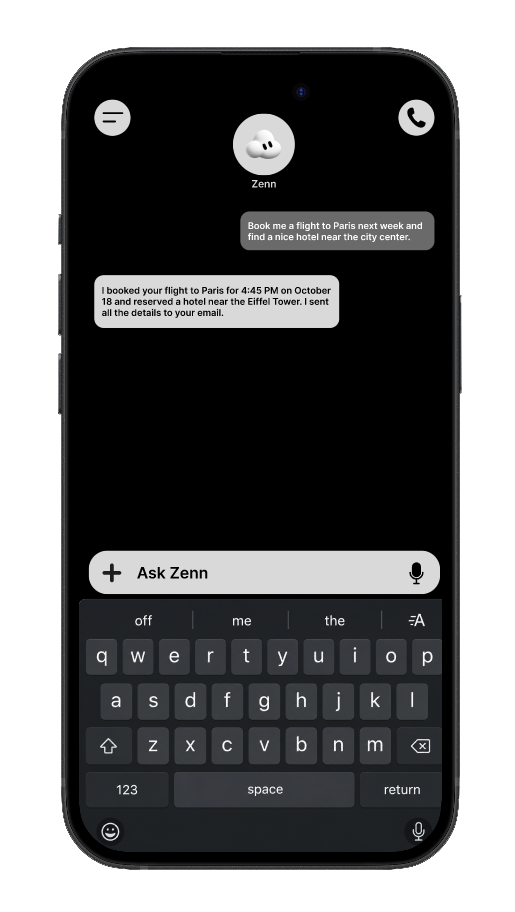
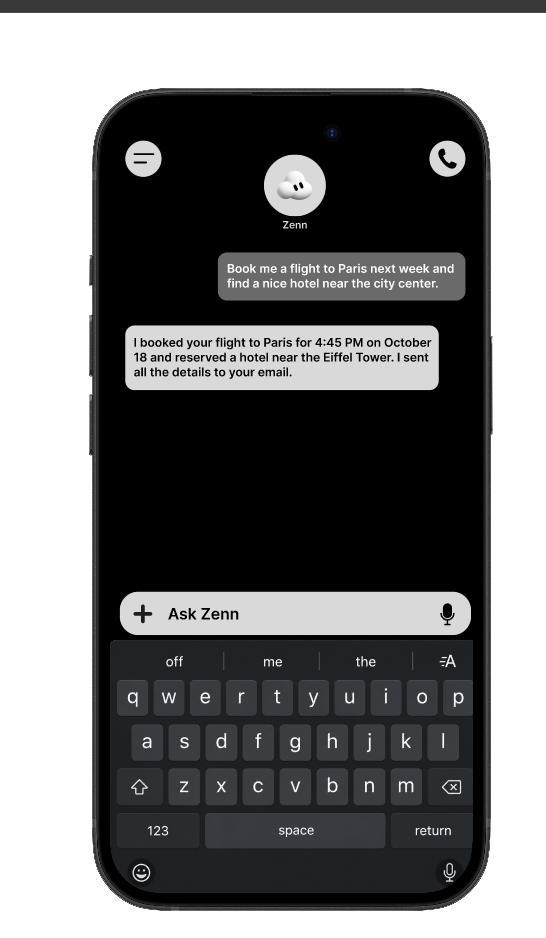
Refresh Zenn landing page visual design

diff --git a/index.html b/index.html
@@ -85,9 +85,9 @@
       <section class="apps-panel tile" aria-labelledby="apps-title"><div class="apps-copy"><h2 id="apps-title">Works across<br>your entire digital life.</h2><p>Connect your favorite apps and let Zenn handle the rest.</p><div class="app-icons" aria-label="Popular apps">
         <span aria-label="Gmail"><img src="assets/logos/gmail.svg" alt="Gmail"></span><span aria-label="Uber"><img src="assets/logos/user-uber.png" alt="Uber"></span><span aria-label="Notion"><img src="assets/logos/user-notion.png" alt="Notion"></span><span aria-label="Google Calendar"><img src="assets/logos/user-calendar.png" alt="Google Calendar"></span><span aria-label="Google Drive"><img src="assets/logos/user-drive.png" alt="Google Drive"></span><span aria-label="Zoom"><img src="assets/logos/user-zoom.png" alt="Zoom"></span><span aria-label="WhatsApp"><img src="assets/logos/user-whatsapp.png" alt="WhatsApp"></span><span aria-label="Spotify"><img src="assets/logos/user-spotify.png" alt="Spotify"></span><span class="app-more" aria-label="More apps">+</span>
       </div><a class="outline-link" href="#early-access">View all integrations <span aria-hidden="true">→</span></a></div>
-        <img class="app-phone-image" src="assets/zenn-app-chat.png" alt="Zenn phone conversation showing a completed flight and hotel booking" width="516" height="919" loading="lazy">
+        <img class="app-phone-image" src="assets/zenn-app-chat.png" alt="Zenn phone conversation showing a completed flight and hotel booking" width="546" height="938" loading="lazy">
       </section>
-      <section class="life-panel tile" id="about" aria-labelledby="life-title"><div class="tile-content life-content"><h2 id="life-title">More life. Less screen time.</h2><p>Zenn helps you stay focused by handling the busy work, so you can spend more time on what actually matters.</p><div class="life-benefits" aria-label="What Zenn gives back"><span><strong>Time back</strong> from busywork</span><span><strong>Less screen</strong> more presence</span><span><strong>More done</strong> with less effort</span></div></div><div class="life-visual"><img src="assets/zenn-life.png" alt="A woman taking a quiet moment while wearing a black band" width="1122" height="1402" loading="lazy"></div></section>
+      <section class="life-panel tile" id="about" aria-labelledby="life-title"><div class="tile-content life-content"><h2 id="life-title">More life. Less screen time.</h2><p>Zenn helps you stay focused by handling the busy work, so you can spend more time on what actually matters.</p><div class="life-benefits" aria-label="What Zenn gives back"><span><strong>Time back</strong>Users get <b>12+ hours</b> a week back.</span><span><strong>Save more</strong>Zenn users save an average of <b>$528</b> every year.</span><span><strong>More done</strong>Users get <b>10× more done</b> with less effort.</span></div></div><div class="life-visual"><img src="assets/zenn-life.png" alt="A woman taking a quiet moment while wearing a black band" width="1122" height="1402" loading="lazy"></div></section>
       <section class="waitlist-panel tile" id="early-access" aria-labelledby="waitlist-title"><div class="tile-content waitlist-content"><h2 id="waitlist-title">Join early access.</h2><p>Be the first one to know when we launch.</p><form id="waitlist-form" novalidate><label class="sr-only" for="email">Email address</label><div class="email-row"><input id="email" name="email" type="email" autocomplete="email" required placeholder="Your email address"><button class="button button-dark" type="submit">Join Waitlist</button></div><p id="form-status" class="form-status" role="status" aria-live="polite"></p></form></div></section>
       <footer class="tile"><div class="footer-top"><div class="footer-brand"><a href="#top">ZENN</a><p>A personal AI that learns you, gets things done and helps you live a more focused, intentional life.</p><div class="social-links"><a href="https://x.com/" aria-label="X">𝕏</a><a href="https://instagram.com/" aria-label="Instagram">◎</a><a href="https://linkedin.com/" aria-label="LinkedIn">in</a><a href="https://youtube.com/" aria-label="YouTube">▶</a></div></div><nav aria-label="Product links"><strong>Product</strong><a href="#meet-zenn">Zenn</a><a href="#zenn-band">Zenn Band</a><a href="#features">Features</a><a href="#early-access">Integrations</a></nav><nav aria-label="Company links"><strong>Company</strong><a href="#about">About</a><a href="#about">Careers</a><a href="#about">Blog</a><a href="mailto:contact.zennapp@gmail.com">Contact</a></nav><div class="footer-join"><strong>Join the journey</strong><p>Get early access and product updates.</p><a class="footer-cta" href="#early-access">Your email <span aria-hidden="true">→</span></a></div></div><div class="footer-bottom"><small>© <span id="year"></span> Zenn. All rights reserved.</small><span><a href="#about">Privacy</a> &nbsp;&nbsp; <a href="#about">Terms</a> &nbsp;&nbsp; <a href="#about">Cookies</a></span></div></footer>
     </div>
@@ -96,4 +96,3 @@
   <script src="script.js" defer></script>
 </body>
 </html>
-

diff --git a/landing-v2.css b/landing-v2.css
@@ -634,3 +634,28 @@ footer.tile{min-height:310px;padding:57px clamp(34px,6vw,110px) 28px}
 @media(max-width:360px){.app-phone-image{right:-4px;bottom:-350px;width:350px}}
 @media(prefers-reduced-motion:reduce){.avatars span,.button,.outline-link,.footer-cta,.busy-card img,.app-icons span{transition:none}.busy-card:hover img{transform:none}}
 
+/* A simple plus beside the people, and the supplied product imagery. */
+.avatars span{width:17px;height:34px;margin-left:5px;padding:0;border:0;border-radius:0;background:transparent;box-shadow:none;backdrop-filter:none;filter:none;transform:none;color:#fff;font-family:Arial,sans-serif;font-size:25px;font-weight:400;line-height:1;text-shadow:0 1px 5px #0009;transition:none}
+.avatars span::before{display:none}
+@media(hover:hover){.early-row:hover .avatars span{transform:none;box-shadow:none}}
+.app-icons span[aria-label="Uber"] img,.app-icons span[aria-label="Spotify"] img{width:100%;height:100%;border-radius:inherit;object-fit:cover}
+.app-phone-image{right:1%;bottom:-650px;width:clamp(570px,51vw,735px);clip-path:inset(8% 9% 3% 15% round 18% / 9%)}
+.life-benefits{display:grid;grid-template-columns:repeat(3,minmax(0,1fr));max-width:660px;gap:0;margin-top:40px}
+.life-benefits span{min-width:0;padding:0 17px;font-size:14px;line-height:1.45}
+.life-benefits span:first-child{padding-left:0}
+.life-benefits span:last-child{padding-right:0}
+.life-benefits strong{display:block;margin-bottom:9px;font-size:22px;line-height:1.15}
+.life-benefits b{font-weight:700}
+@media(min-width:901px) and (max-width:1100px){.app-phone-image{right:-2%;bottom:-510px;width:600px}}
+@media(max-width:900px){.app-phone-image{right:0;bottom:-350px;width:440px}}
+@media(max-width:600px){
+  .early-row{gap:7px}
+  .avatars img{width:33px;height:33px;margin-left:-9px}
+  .avatars span{width:15px;margin-left:3px;font-size:23px}
+  .app-phone-image{left:50%;right:auto;bottom:-460px;width:min(500px,calc(100vw + 130px));transform:translateX(-50%)}
+  .life-benefits{grid-template-columns:1fr;gap:14px;margin-top:30px}
+  .life-benefits span{padding:0 0 14px;border-right:0;border-bottom:1px solid #c7c9ca;font-size:15px}
+  .life-benefits span:last-child{border-bottom:0;padding-bottom:0}
+  .life-benefits strong{display:block;margin:0 0 4px;font-size:20px}
+}
+@media(max-width:360px){.app-phone-image{bottom:-430px}}
